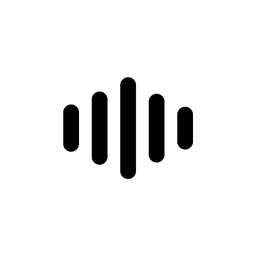
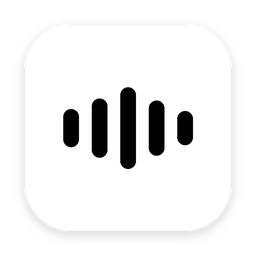
feat: 重做 App 图标（Apple 网格，纯白平面）
- 1024 画布，内容区 824×824、圆角 185，符合 macOS 图标网格
- 纯白底 + 黑色波形，柔和投影保证白底桌面上仍可见
- 新增 scripts/make-icon.py 可复现生成
- 版本 1.5.9

diff --git a/scripts/make-icon.py b/scripts/make-icon.py
@@ -1,0 +1,85 @@
+#!/usr/bin/env python3
+"""Generates the Transclase app icon.
+
+Follows Apple's macOS icon grid: a 1024×1024 canvas where the artwork occupies a
+824×824 rounded square (radius 185) centred, leaving room for the drop shadow
+the system expects. Flat white fill, black waveform glyph.
+"""
+
+import pathlib
+import sys
+
+from PIL import Image, ImageDraw, ImageFilter
+
+SIZE = 1024
+CONTENT = 824           # macOS icon grid: content square inside the canvas
+RADIUS = 185            # Big Sur squircle radius for that square
+BARS = [0.40, 0.62, 0.86, 0.58, 0.36]
+BAR_WIDTH = 62
+BAR_GAP = 52
+BAR_FILL = 0.46         # tallest bar as a fraction of the content square
+
+
+def squircle_mask(size: int, radius: int) -> Image.Image:
+    mask = Image.new("L", (size, size), 0)
+    ImageDraw.Draw(mask).rounded_rectangle([0, 0, size - 1, size - 1], radius=radius, fill=255)
+    return mask
+
+
+def build(with_shadow: bool = True) -> Image.Image:
+    canvas = Image.new("RGBA", (SIZE, SIZE), (0, 0, 0, 0))
+    offset = (SIZE - CONTENT) // 2
+
+    if with_shadow:
+        # Soft shadow so the white tile keeps an edge on a white desktop, which
+        # is what macOS icons are expected to do.
+        shadow = Image.new("RGBA", (SIZE, SIZE), (0, 0, 0, 0))
+        shadow_draw = ImageDraw.Draw(shadow)
+        shadow_draw.rounded_rectangle(
+            [offset, offset + 12, offset + CONTENT, offset + CONTENT + 12],
+            radius=RADIUS,
+            fill=(0, 0, 0, 46),
+        )
+        canvas.alpha_composite(shadow.filter(ImageFilter.GaussianBlur(22)))
+
+    tile = Image.new("RGBA", (CONTENT, CONTENT), (0, 0, 0, 0))
+    draw = ImageDraw.Draw(tile)
+    draw.rounded_rectangle([0, 0, CONTENT - 1, CONTENT - 1], radius=RADIUS, fill=(255, 255, 255, 255))
+
+    total = len(BARS) * BAR_WIDTH + (len(BARS) - 1) * BAR_GAP
+    x = (CONTENT - total) / 2
+    for ratio in BARS:
+        height = CONTENT * BAR_FILL * ratio
+        y = (CONTENT - height) / 2
+        draw.rounded_rectangle([x, y, x + BAR_WIDTH, y + height], radius=BAR_WIDTH / 2, fill=(0, 0, 0, 255))
+        x += BAR_WIDTH + BAR_GAP
+
+    canvas.alpha_composite(tile, (offset, offset))
+    return canvas
+
+
+def main() -> None:
+    root = pathlib.Path(__file__).resolve().parent.parent
+    assetset = root / "Transclase/Assets.xcassets/AppIcon.appiconset"
+    docs_icon = root / "docs/img/icon.png"
+
+    if len(sys.argv) > 1 and sys.argv[1] == "--flat":
+        master = build(with_shadow=False)
+    else:
+        master = build(with_shadow=True)
+
+    assetset.mkdir(parents=True, exist_ok=True)
+    master.resize((SIZE, SIZE), Image.LANCZOS).save(assetset / "icon-1024@2x.png")
+
+    for pixels, scale in [(16, "1x"), (32, "2x"), (32, "1x"), (64, "2x"),
+                          (128, "1x"), (256, "2x"), (256, "1x"), (512, "2x"),
+                          (512, "1x")]:
+        master.resize((pixels, pixels), Image.LANCZOS).save(assetset / f"icon-{pixels}@{scale}.png")
+
+    master.resize((256, 256), Image.LANCZOS).save(docs_icon)
+    master.save("/tmp/icon-master.png")
+    print(f"wrote {SIZE}px master + 9 sizes, docs icon")
+
+
+if __name__ == "__main__":
+    main()
